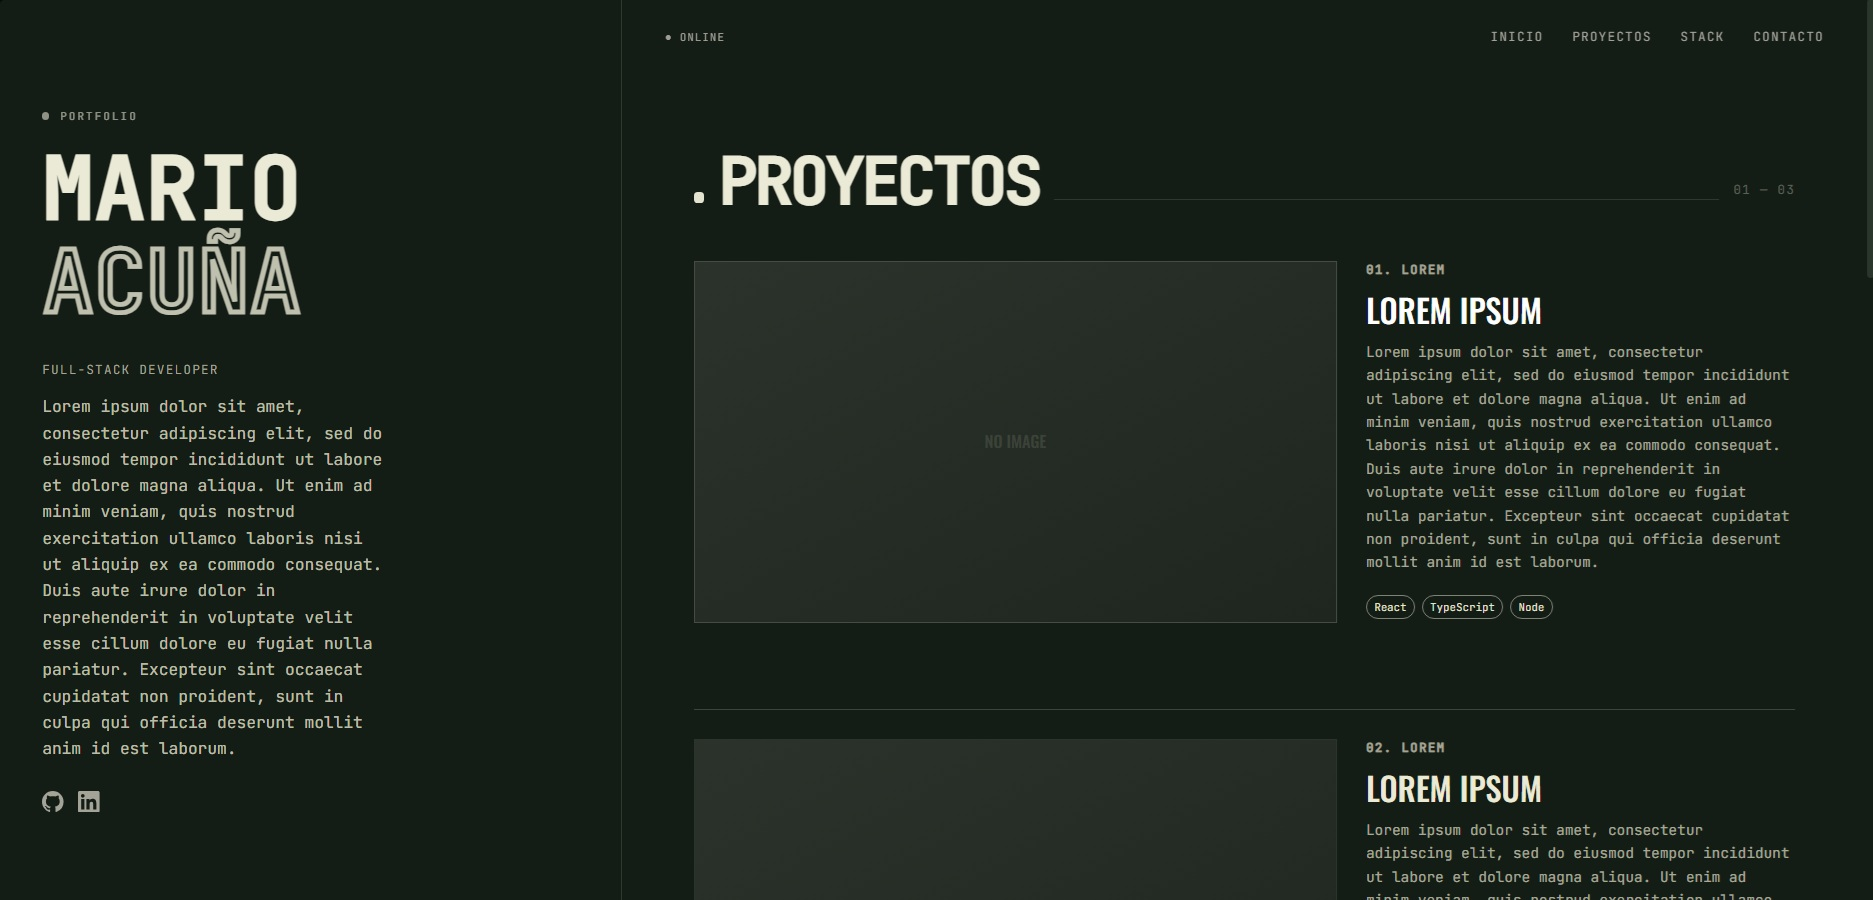
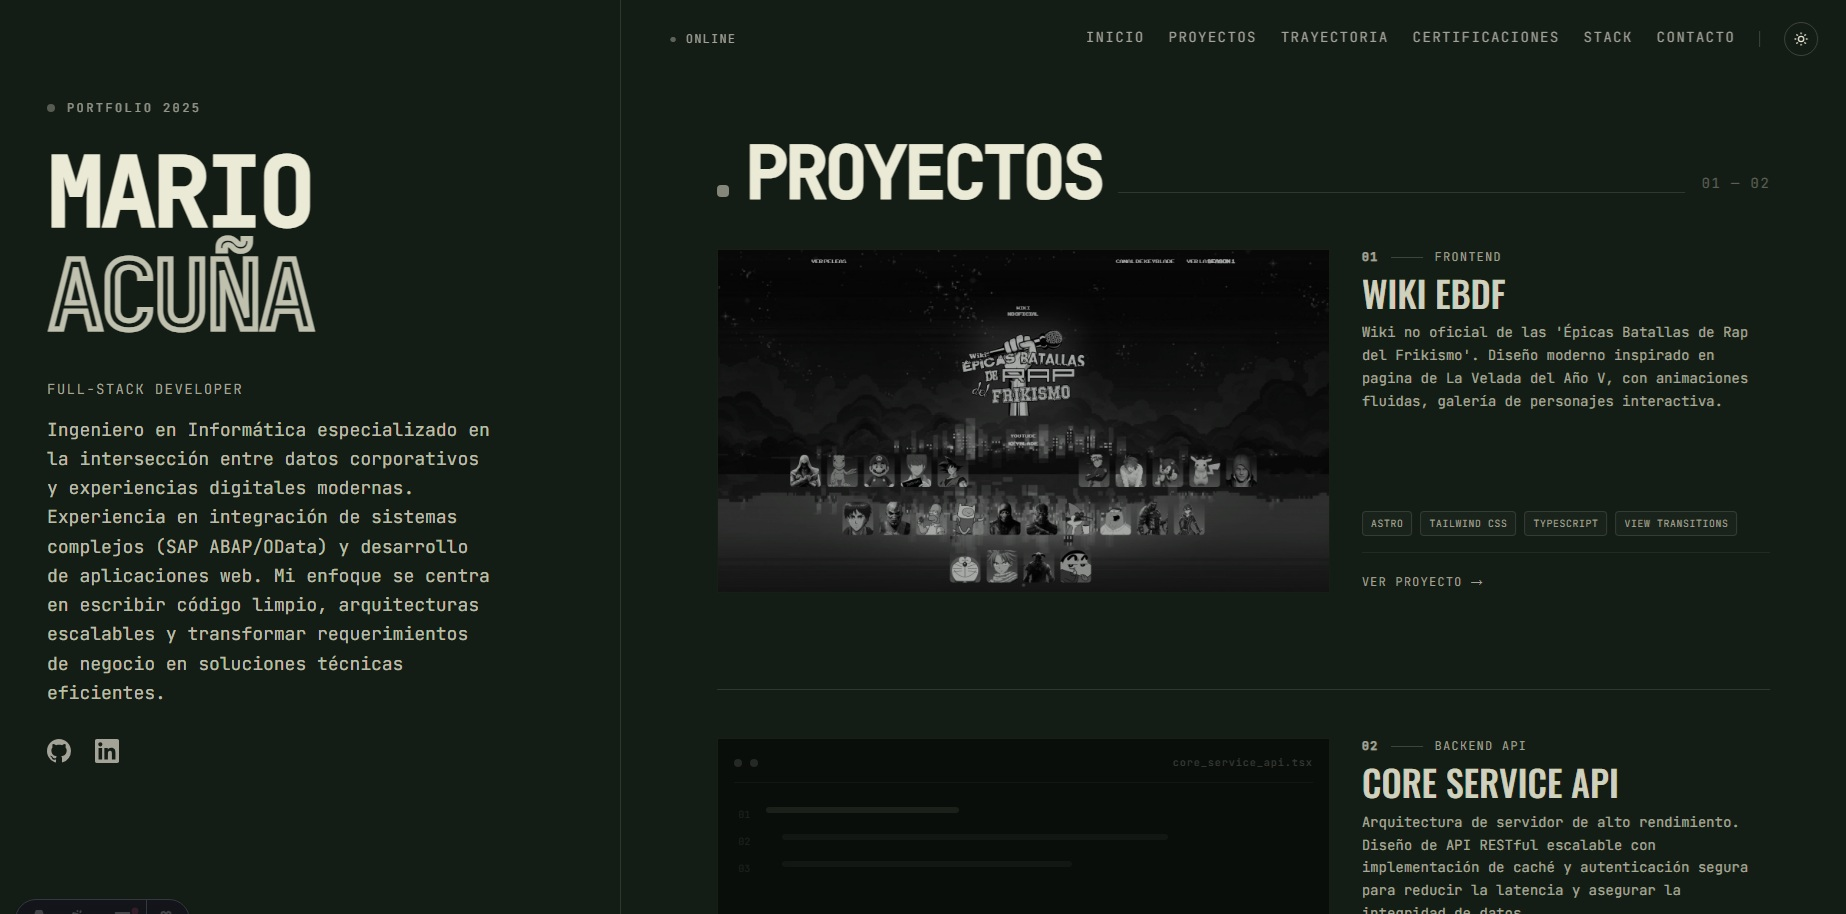
Foto preview

diff --git a/src/data/projects.ts b/src/data/projects.ts
@@ -18,5 +18,12 @@ export const projects: Project[] = [
     image: "../proy/wiki_ebdf.jpg",
     link: "https://github.com/MarioAlpaca/wiki-ebdf.git",
   },
+  {
+    number: "02",
+    category: "Backend API",
+    title: "Core Service API",
+    description: "Arquitectura de servidor de alto rendimiento. Diseño de API RESTful escalable con implementación de caché y autenticación segura para reducir la latencia y asegurar la integridad de datos.",
+    stack: ["Node.js", "Express", "PostgreSQL", "Docker"],
+  },
 
 ];
